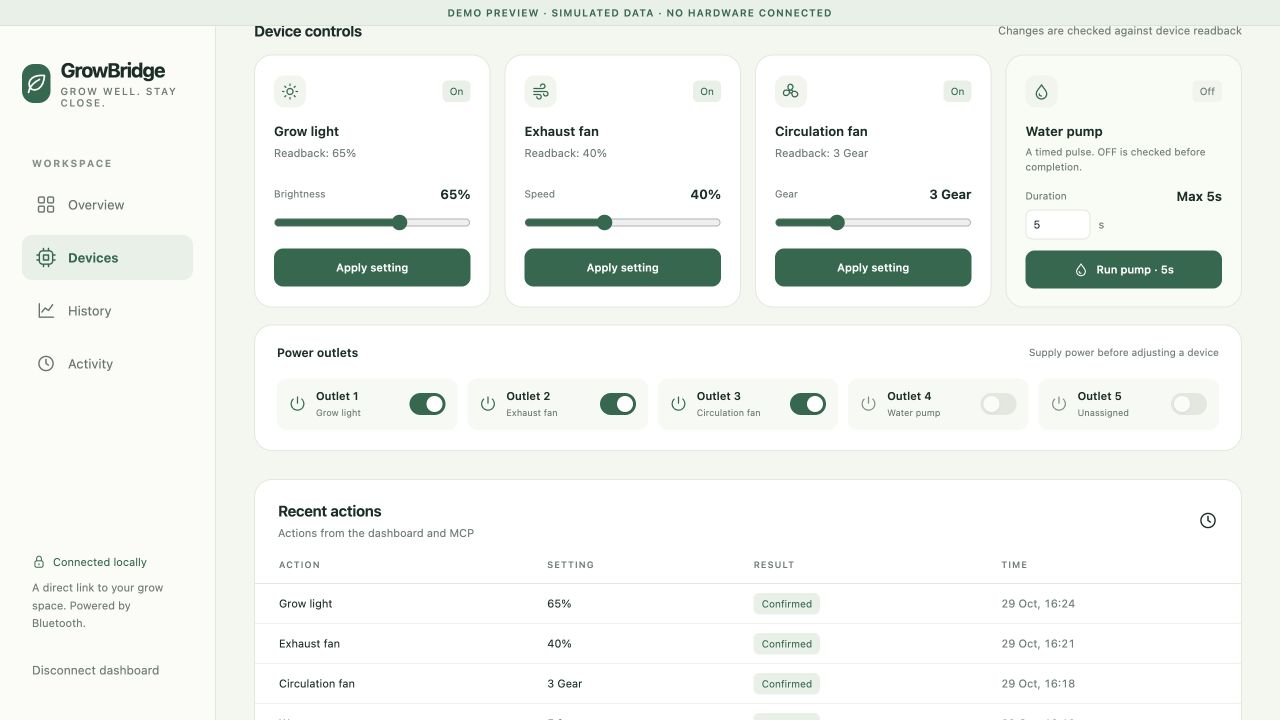
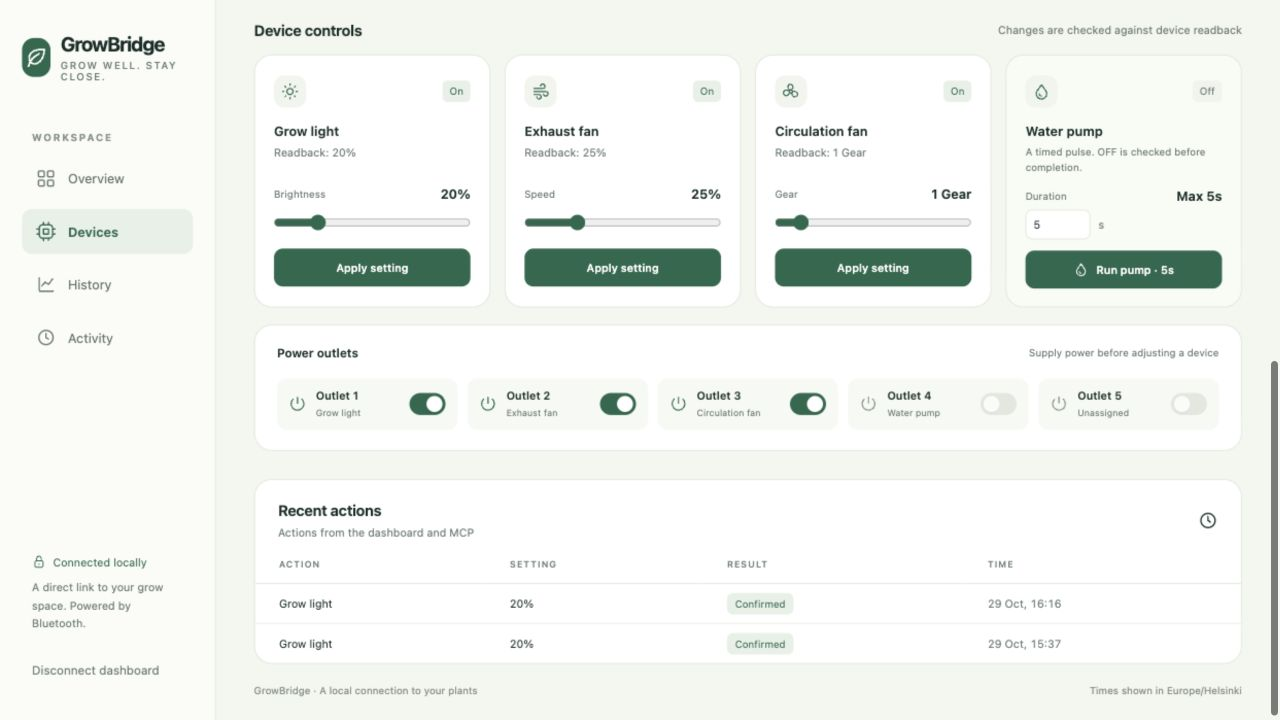
Replace demo previews with real AC5 dashboard screenshots

diff --git a/README.md b/README.md
@@ -8,22 +8,22 @@ This is an independent, early-stage project with no affiliation with Spider Farm
 
 ## Preview
 
-Screenshots use simulated data, with no hardware connected.
+Screenshots captured from a real AC5 connected over local Bluetooth on macOS. Readings, history, and device states reflect the time of capture.
 
 **Desktop overview** — environment readings, historical trends, controls, and recent actions.
 
-![GrowBridge desktop dashboard with simulated environmental readings and history](docs/images/dashboard-overview.jpg)
+![GrowBridge desktop dashboard with real AC5 environmental readings and recorded history](docs/images/dashboard-overview.jpg)
 
 <details>
 <summary>Device controls and mobile layout</summary>
 
 **Device controls** — light brightness, fan speeds, timed pump operation, and power outlets.
 
-![GrowBridge device controls and power outlets using simulated data](docs/images/dashboard-controls.jpg)
+![GrowBridge device controls and power outlets showing real AC5 device states](docs/images/dashboard-controls.jpg)
 
 **Mobile layout** — the same controls on a narrow screen.
 
-<img src="docs/images/dashboard-mobile.jpg" alt="GrowBridge mobile device controls with simulated data" width="375">
+<img src="docs/images/dashboard-mobile.jpg" alt="GrowBridge mobile device controls showing real AC5 device states" width="375">
 
 </details>
 
@@ -195,7 +195,7 @@ Configure SSH keys and verify the host's identity first. Closing an MCP connecti
 ## Data and control boundaries
 
 - Sensor samples are retained for 30 days by default, configurable through `retention_days`. History starts when the installed service begins collecting data.
-- Configuration, SQLite data, and logs are stored in private user directories. The repository contains no actual device addresses, account identifiers, captures, or device configuration backups.
+- Configuration, SQLite data, and logs are stored in private user directories. The repository contains no actual device addresses, account identifiers, raw protocol captures, or device configuration backups.
 - The service reads the target module's complete configuration before changing its fields. A successful acknowledgement is followed by a device-state readback to confirm the change.
 - Ordinary controls are rejected when data is stale, Bluetooth is disconnected, or the protocol is unsupported. Reconnection does not replay historical commands.
 - The daemon owns pump timing. A client disconnect does not cancel the OFF action. Operations are persisted before execution; after an interrupted pump operation, reconnection prioritizes turning the pump off rather than replaying ON.

diff --git a/README.zh-CN.md b/README.zh-CN.md
@@ -8,22 +8,22 @@
 
 ## 界面预览
 
-以下截图使用演示数据，没有连接真实硬件。
+以下截图来自通过本地蓝牙连接到 Mac 的真实 AC5，展示截图时的环境读数、采集历史和设备状态。
 
 **桌面总览**：环境读数、历史曲线、设备控制和最近操作。
 
-![GrowBridge 桌面控制台：演示环境读数和历史曲线](docs/images/dashboard-overview.jpg)
+![GrowBridge 桌面控制台：真实 AC5 环境读数和采集历史曲线](docs/images/dashboard-overview.jpg)
 
 <details>
 <summary>展开查看设备控制与手机布局</summary>
 
 **设备控制**：灯光亮度、风机速度、水泵定时运行和电源插座。
 
-![GrowBridge 设备控制与电源插座，使用演示数据](docs/images/dashboard-controls.jpg)
+![GrowBridge 设备控制与电源插座，展示真实 AC5 设备状态](docs/images/dashboard-controls.jpg)
 
 **手机布局**：窄屏上的相同控制功能。
 
-<img src="docs/images/dashboard-mobile.jpg" alt="GrowBridge 手机设备控制界面，使用演示数据" width="375">
+<img src="docs/images/dashboard-mobile.jpg" alt="GrowBridge 手机设备控制界面，展示真实 AC5 设备状态" width="375">
 
 </details>
 
@@ -195,7 +195,7 @@ args = ["-T", "YOUR_PI_HOST", "/absolute/path/on/pi/spiderfarmer-growbridge/.ven
 ## 数据与控制边界
 
 - 默认保留 30 天传感器样本，可配置 `retention_days`；历史从安装启动后开始。
-- 配置、SQLite 和日志存放在用户私有目录。仓库不包含实际地址、账户标识、抓包或设备配置备份。
+- 配置、SQLite 和日志存放在用户私有目录。仓库不包含实际地址、账户标识、原始蓝牙抓包或设备配置备份。
 - 先读取目标模块完整配置，再修改目标字段；收到成功回复后仍须读取设备状态确认。
 - 数据过期、蓝牙断线、协议不支持时拒绝普通控制；重连不会重放历史命令。
 - 水泵计时由服务负责，客户端断开不会取消关闭动作。进行中的操作先写入数据库；中断后的水泵操作在重连时优先关闭，不重放开启动作。
